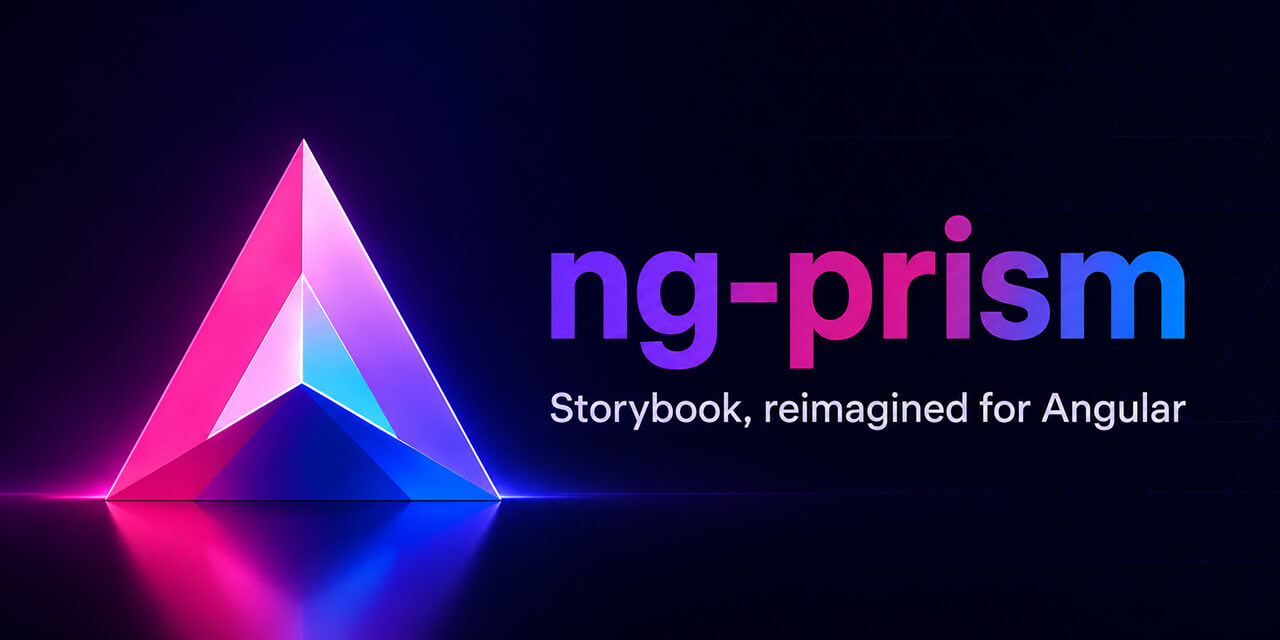
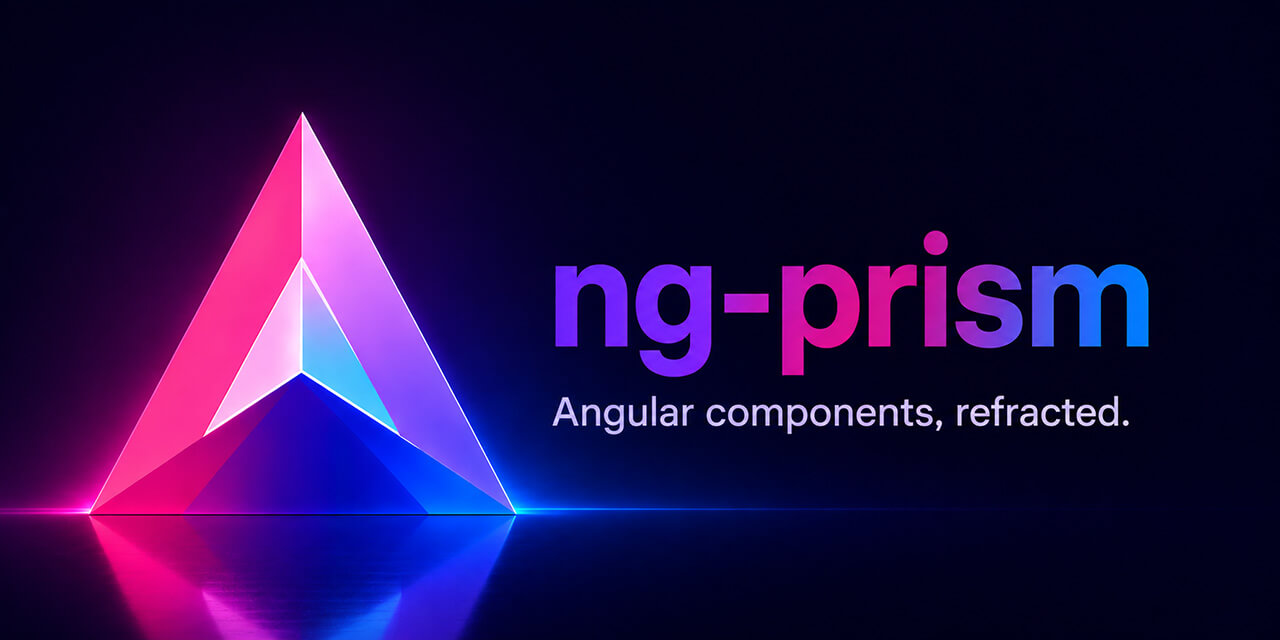
docs: switch docsify site to dark theme, refresh cover image and npm metadata
- Align docs site palette with PRISM_DARK_THEME (dark background, violet accents, JetBrains Mono)
- Add Prism.js syntax token colors, GitHub-corner + sidebar-toggle styling
- Replace README teaser with new prism_cover.png
- Expand ng-prism package keywords and tagline for better npm discoverability

Changed region(s): [[0.0, 0.1562, 0.9375, 1.0], [0.4062, 0.3438, 0.9375, 0.5938]]

diff --git a/docs/index.html b/docs/index.html
@@ -14,7 +14,7 @@
     <link rel="preconnect" href="https://fonts.googleapis.com" />
     <link rel="preconnect" href="https://fonts.gstatic.com" crossorigin />
     <link
-      href="https://fonts.googleapis.com/css2?family=Inter:wght@400;500;600;700&family=Fira+Code:wght@400;500&display=swap"
+      href="https://fonts.googleapis.com/css2?family=Inter:wght@400;500;600;700&family=JetBrains+Mono:wght@400;500&display=swap"
       rel="stylesheet"
     />
     <link
@@ -23,65 +23,66 @@
     />
     <style>
       :root {
-        /* — Prism light palette — */
-        --prism-void: #f0ecff;
-        --prism-deep: #faf8ff;
-        --prism-surface: #f3efff;
-        --prism-elevated: #ffffff;
-        --prism-violet: #6d28d9;
+        /* — Prism dark palette (aligned with PRISM_DARK_THEME) — */
+        --prism-void: #07050f;
+        --prism-deep: #0d0b1c;
+        --prism-surface: #131022;
+        --prism-elevated: #1a1535;
+        --prism-violet: #a78bfa;
         --prism-violet-deep: #7c3aed;
-        --prism-blue: #2563eb;
-        --prism-cyan: #0891b2;
-        --prism-pink: #db2777;
-        --prism-rose: #ec4899;
-        --prism-text-primary: #1a0e2e;
-        --prism-text-secondary: #4a3d65;
-        --prism-text-muted: #6b5e80;
-        --prism-border: rgba(109, 40, 217, 0.1);
-        --prism-glow: rgba(109, 40, 217, 0.1);
-        --prism-glow-strong: rgba(109, 40, 217, 0.2);
+        --prism-blue: #3b82f6;
+        --prism-cyan: #22d3ee;
+        --prism-pink: #ec4899;
+        --prism-rose: #f472b6;
+        --prism-text-primary: #ede9f8;
+        --prism-text-secondary: #b0a6c8;
+        --prism-text-muted: #8476a2;
+        --prism-border: rgba(255, 255, 255, 0.08);
+        --prism-glow: rgba(139, 92, 246, 0.18);
+        --prism-glow-strong: rgba(139, 92, 246, 0.35);
 
         /* — Docsify theme overrides — */
-        --theme-color: #6d28d9;
-        --base-background-color: #faf8ff;
-        --base-color: #1a0e2e;
+        --theme-color: #a78bfa;
+        --base-background-color: #0d0b1c;
+        --base-color: #ede9f8;
 
-        --sidebar-background: #f3efff;
-        --sidebar-nav-link-color: #4a3d65;
-        --sidebar-nav-link-color--active: #6d28d9;
-        --sidebar-nav-link-color--hover: #1a0e2e;
+        --sidebar-background: #07050f;
+        --sidebar-nav-link-color: #b0a6c8;
+        --sidebar-nav-link-color--active: #a78bfa;
+        --sidebar-nav-link-color--hover: #ede9f8;
         --sidebar-nav-link-border-color--active: #7c3aed;
-        --sidebar-nav-strong-color: #6b5e80;
-        --sidebar-name-color: #6d28d9;
+        --sidebar-nav-strong-color: #8476a2;
+        --sidebar-name-color: #a78bfa;
         --sidebar-width: 280px;
+        --sidebar-border-color: rgba(255, 255, 255, 0.08);
 
-        --link-color: #6d28d9;
-        --link-color--hover: #7c3aed;
+        --link-color: #a78bfa;
+        --link-color--hover: #c4b5fd;
 
-        --heading-color: #1a0e2e;
-        --heading-h2-border-color: rgba(109, 40, 217, 0.12);
+        --heading-color: #ede9f8;
+        --heading-h2-border-color: rgba(255, 255, 255, 0.08);
 
-        --code-theme-background: #f3efff;
-        --code-inline-background: rgba(109, 40, 217, 0.06);
-        --code-inline-color: #6d28d9;
+        --code-theme-background: #131022;
+        --code-inline-background: rgba(167, 139, 250, 0.12);
+        --code-inline-color: #c4b5fd;
 
         --blockquote-border-color: #7c3aed;
 
-        --table-head-background: rgba(109, 40, 217, 0.04);
-        --table-row-even-background: rgba(109, 40, 217, 0.02);
+        --table-head-background: rgba(167, 139, 250, 0.06);
+        --table-row-even-background: rgba(167, 139, 250, 0.03);
 
-        --search-background: #ffffff;
-        --search-result-heading-color: #6d28d9;
+        --search-background: #1a1535;
+        --search-result-heading-color: #a78bfa;
 
-        --cover-background-color: #faf8ff;
+        --cover-background-color: #0d0b1c;
 
-        --notice-tip-border-color: #6d28d9;
-        --notice-important-border-color: #2563eb;
+        --notice-tip-border-color: #a78bfa;
+        --notice-important-border-color: #3b82f6;
 
         --base-font-family: 'Inter', system-ui, -apple-system, sans-serif;
         --base-font-size: 15px;
         --base-line-height: 1.7;
-        --code-font-family: 'Fira Code', ui-monospace, 'Cascadia Code',
+        --code-font-family: 'JetBrains Mono', ui-monospace, 'Cascadia Code',
           monospace;
         --code-font-size: 0.875em;
 
@@ -107,7 +108,7 @@
     —————————————————————————————————————— */
       .sidebar {
         border-right: 1px solid var(--prism-border);
-        background: var(--prism-surface) !important;
+        background: var(--prism-void) !important;
       }
 
       /* Spectral gradient line at the top of sidebar */
@@ -125,7 +126,7 @@
           #fac3f2
         );
         border-radius: 1px;
-        opacity: 0.6;
+        opacity: 0.5;
       }
 
       .sidebar .search {
@@ -180,6 +181,14 @@
         border-right: 2px solid var(--prism-violet-deep);
       }
 
+      /* Sidebar toggle (mobile) */
+      .sidebar-toggle {
+        background: var(--prism-surface) !important;
+      }
+      .sidebar-toggle span {
+        background-color: var(--prism-text-muted) !important;
+      }
+
       /* ——————————————————————————————————————
        Content
     —————————————————————————————————————— */
@@ -223,7 +232,7 @@
         color: var(--prism-text-primary);
         margin: 2em 0 0.6em;
         padding-bottom: 0.4em;
-        border-bottom: 1px solid rgba(167, 139, 250, 0.1);
+        border-bottom: 1px solid rgba(167, 139, 250, 0.12);
       }
 
       .markdown-section h3 {
@@ -246,19 +255,24 @@
 
       .markdown-section a {
         text-decoration: none;
-        border-bottom: 1px solid rgba(109, 40, 217, 0.25);
+        border-bottom: 1px solid rgba(167, 139, 250, 0.3);
         transition: color 0.15s, border-color 0.15s;
       }
       .markdown-section a:hover {
-        color: #7c3aed;
-        border-bottom-color: #7c3aed;
+        color: #c4b5fd;
+        border-bottom-color: #c4b5fd;
+      }
+
+      .markdown-section hr {
+        border: none;
+        border-top: 1px solid var(--prism-border);
       }
 
       /* ——————————————————————————————————————
        Code blocks
     —————————————————————————————————————— */
       .markdown-section pre {
-        background: var(--prism-elevated) !important;
+        background: var(--prism-surface) !important;
         border: 1px solid var(--prism-border);
         border-radius: 8px;
         padding: 20px 24px;
@@ -272,14 +286,73 @@
         font-size: var(--code-font-size);
       }
 
+      .markdown-section pre code {
+        background: transparent !important;
+        color: var(--prism-text-secondary);
+      }
+
       .markdown-section p code,
       .markdown-section li code,
       .markdown-section td code {
-        background: rgba(167, 139, 250, 0.08);
+        background: rgba(167, 139, 250, 0.1);
         color: #c4b5fd;
         padding: 2px 6px;
         border-radius: 4px;
         font-size: 0.85em;
+      }
+
+      /* ——————————————————————————————————————
+       Prism.js syntax highlighting (dark)
+    —————————————————————————————————————— */
+      .token.comment,
+      .token.prolog,
+      .token.doctype,
+      .token.cdata {
+        color: #6a5d87;
+      }
+
+      .token.punctuation {
+        color: #8476a2;
+      }
+
+      .token.property,
+      .token.tag,
+      .token.boolean,
+      .token.number,
+      .token.constant,
+      .token.symbol {
+        color: #f472b6;
+      }
+
+      .token.selector,
+      .token.attr-name,
+      .token.string,
+      .token.char,
+      .token.builtin {
+        color: #86efac;
+      }
+
+      .token.operator,
+      .token.entity,
+      .token.url {
+        color: #b0a6c8;
+      }
+
+      .token.atrule,
+      .token.attr-value,
+      .token.keyword {
+        color: #c4b5fd;
+      }
+
+      .token.function,
+      .token.class-name {
+        color: #60a5fa;
+      }
+
+      .token.regex,
+      .token.important,
+      .token.variable {
+        color: #fbbf24;
       }
 
       /* ——————————————————————————————————————
@@ -290,7 +363,7 @@
         width: 100%;
       }
       .markdown-section table thead {
-        background: rgba(167, 139, 250, 0.05);
+        background: rgba(167, 139, 250, 0.06);
       }
       .markdown-section table th {
         font-size: 12px;
@@ -300,7 +373,7 @@
         color: var(--prism-text-muted);
         text-align: left;
         padding: 10px 14px;
-        border-bottom: 1px solid rgba(167, 139, 250, 0.12);
+        border-bottom: 1px solid rgba(167, 139, 250, 0.15);
       }
       .markdown-section table td {
         padding: 10px 14px;
@@ -308,7 +381,7 @@
         font-size: 14px;
       }
       .markdown-section table tr:hover td {
-        background: rgba(167, 139, 250, 0.03);
+        background: rgba(167, 139, 250, 0.06);
       }
 
       /* ——————————————————————————————————————
@@ -316,7 +389,7 @@
     —————————————————————————————————————— */
       .markdown-section blockquote {
         border-left: 3px solid var(--prism-violet-deep);
-        background: rgba(167, 139, 250, 0.04);
+        background: rgba(167, 139, 250, 0.06);
         padding: 12px 20px;
         border-radius: 0 6px 6px 0;
         margin: 1.2em 0;
@@ -353,7 +426,7 @@
         transition: border-color 0.15s, box-shadow 0.15s;
       }
       .search input:focus {
-        border-color: rgba(109, 40, 217, 0.35) !important;
+        border-color: rgba(139, 92, 246, 0.4) !important;
         box-shadow: 0 0 0 3px var(--prism-glow) !important;
       }
       .search input::placeholder {
@@ -365,6 +438,12 @@
         right: 6px;
         top: 50%;
         transform: translateY(-50%);
+      }
+      .search .clear-button svg {
+        fill: var(--prism-text-muted);
+      }
+      .search .results-panel {
+        background: var(--prism-elevated) !important;
       }
 
       .matching-post {
@@ -391,6 +470,17 @@
       }
 
       /* ——————————————————————————————————————
+       GitHub corner
+    —————————————————————————————————————— */
+      .github-corner svg {
+        fill: #131022;
+        color: #b0a6c8;
+      }
+      .github-corner:hover svg {
+        color: #ede9f8;
+      }
+
+      /* ——————————————————————————————————————
        Scrollbar
     —————————————————————————————————————— */
       ::-webkit-scrollbar {
@@ -401,11 +491,11 @@
         background: transparent;
       }
       ::-webkit-scrollbar-thumb {
-        background: rgba(109, 40, 217, 0.12);
+        background: rgba(139, 92, 246, 0.15);
         border-radius: 3px;
       }
       ::-webkit-scrollbar-thumb:hover {
-        background: rgba(109, 40, 217, 0.25);
+        background: rgba(139, 92, 246, 0.3);
       }
 
       /* ——————————————————————————————————————
@@ -420,8 +510,8 @@
         font-size: 11px;
         font-weight: 600;
         font-family: var(--code-font-family);
-        color: #fff !important;
-        background: var(--prism-violet);
+        color: #ede9f8 !important;
+        background: #7c3aed;
         border-radius: 8px;
         text-decoration: none !important;
         letter-spacing: 0.02em;
@@ -433,7 +523,7 @@
         line-height: 1.4;
       }
       .prism-version-badge:hover {
-        background: var(--prism-violet-deep);
+        background: #a78bfa;
       }
 
       /* ——————————————————————————————————————

diff --git a/README.md b/README.md
@@ -1,5 +1,5 @@
 <p align="center">
-  <img src="docs/prism_teaser.jpg" alt="ng-prism — Storybook, reimagined for Angular" width="100%" />
+  <img src="docs/prism_cover.png" alt="ng-prism — Angular components, refracted" width="100%" />
 </p>
 
 # ng-prism

diff --git a/packages/ng-prism/README.md b/packages/ng-prism/README.md
@@ -1,6 +1,6 @@
 # ng-prism
 
-Lightweight, Angular-native component showcase tool. Annotate components with `@Showcase` — no separate story files needed.
+**ng-prism** is the Angular-native Storybook alternative. A lightweight component showcase tool that scans your library at build time and renders interactive demos — annotate components with `@Showcase`, no separate story files needed.
 
 [![Angular](https://img.shields.io/badge/Angular-19+-dd0031)](https://angular.dev)
 [![TypeScript](https://img.shields.io/badge/TypeScript-5.9-3178c6)](https://www.typescriptlang.org)